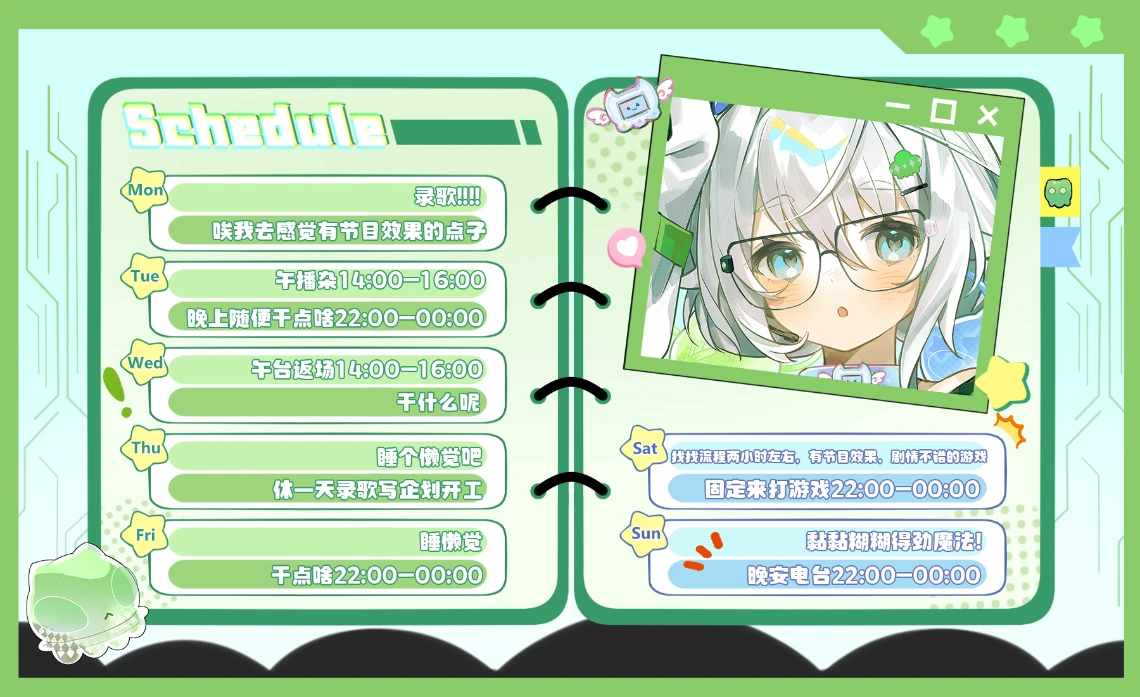
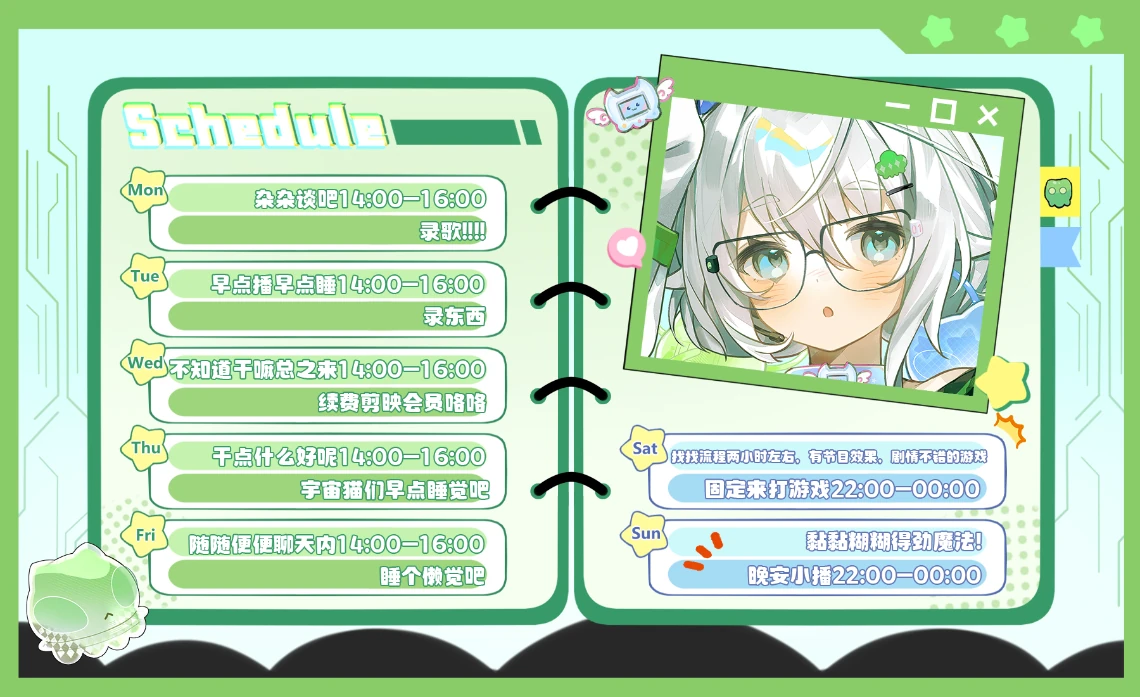
自动更新 2026-11-09 18:18

diff --git a/index.html b/index.html
@@ -231,7 +231,7 @@
     <h2><span class="no">QUEST</span>每周计划</h2>
   </div>
   <div class="wk-head reveal">
-    <span class="wk-status"><span class="dot" aria-hidden="true"></span><span id="planWhen">更新于 <span class="wk-date">2026年11月8日</span></span></span>
+    <span class="wk-status"><span class="dot" aria-hidden="true"></span><span id="planWhen">更新于 <span class="wk-date">2026年11月9日</span></span></span>
     <h2 class="wk-title">本周计划</h2>
     <p class="wk-sub">周表内容来自主页置顶动态的第一张图，每周自动检查一次，置顶动态更新后自动抓取替换。</p>
     <ul class="wk-list">
@@ -255,7 +255,7 @@
                别手工把它改成 <picture> —— 浏览器的 <source> 优先级高于 <img src>，
                会把下面那套「悬停换高清图」的状态机打死（实测改 img.src 完全失效）。
              同时把上方「更新于 X年X月X日」改成抓取/上传那天的日期 -->
-        <img id="weekImg" src="images/schedule-week.webp?v=202611081907" alt="本周周表照片" referrerpolicy="no-referrer" loading="lazy" decoding="async">
+        <img id="weekImg" src="images/schedule-week.webp?v=202611091812" alt="本周周表照片" referrerpolicy="no-referrer" loading="lazy" decoding="async">
         <div class="wk-q" id="weekFail" hidden>？</div>
       </div>
     </div>
@@ -1161,8 +1161,8 @@
     var KEY  = "chu2u-week-v2";          /* 远程抓取缓存 {id, img, ts, week} */
     var DKEY = "chu2u-week-drop";        /* 拖入图片缓存 {img, ts} */
     var UID = "2138961136";
-    var LOCAL = "images/schedule-week.webp?v=202611081907";      /* 静止显示版（1140px 素材按 570px 显示）；?v= 由维护脚本换图时自动改日期，绕过浏览器缓存 */
-    var FULL  = "images/schedule-week-full.webp?v=202611081907"; /* 无损原图（悬停与单击大图共用） */
+    var LOCAL = "images/schedule-week.webp?v=202611091812";      /* 静止显示版（1140px 素材按 570px 显示）；?v= 由维护脚本换图时自动改日期，绕过浏览器缓存 */
+    var FULL  = "images/schedule-week-full.webp?v=202611091812"; /* 无损原图（悬停与单击大图共用） */
     var when    = document.getElementById("planWhen");
     var img     = document.getElementById("weekImg");
     var fail    = document.getElementById("weekFail");
